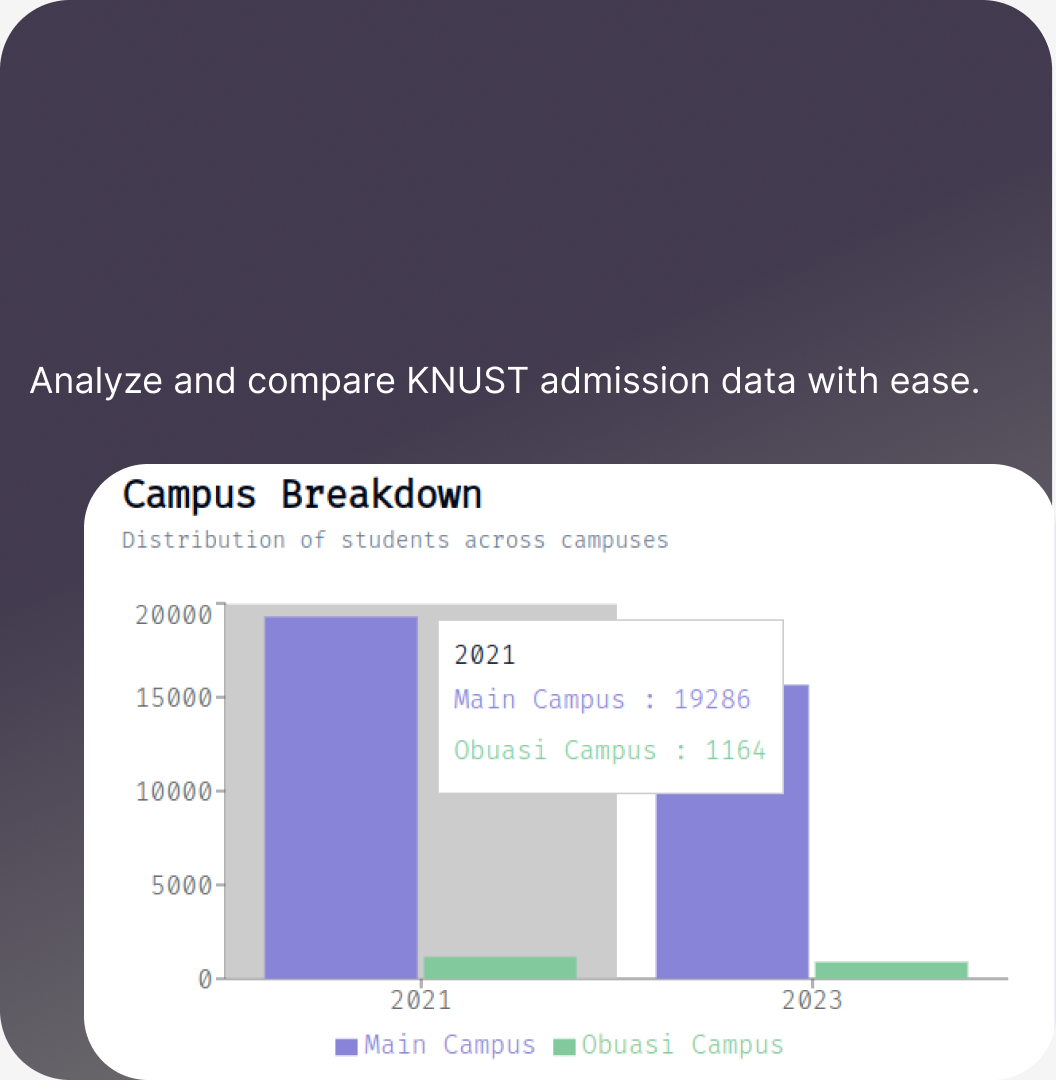
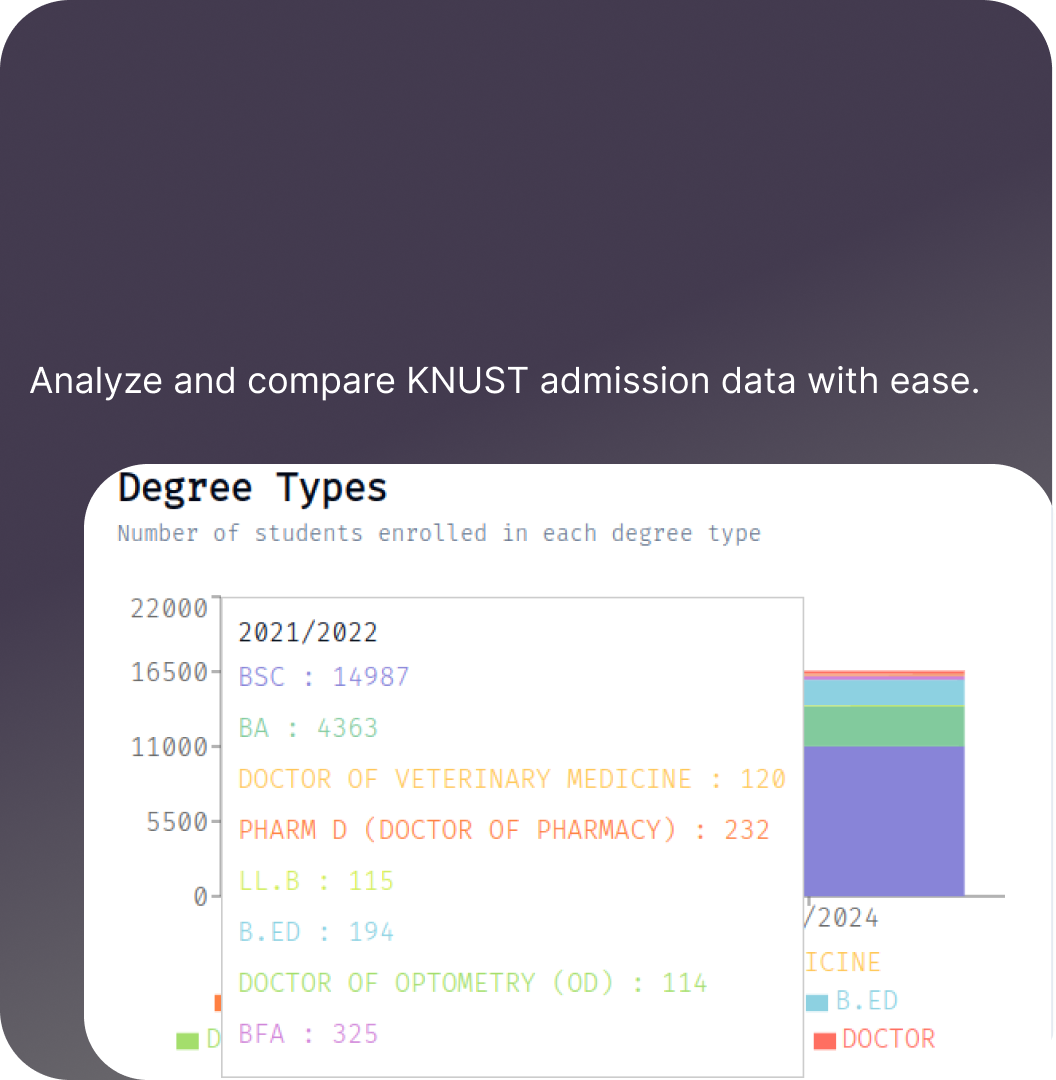
chore: use full academic year

Changed region(s): [[0.125, 0.55, 0.9375, 0.9778], [0.0938, 0.4278, 0.7188, 0.5194]]

diff --git a/src/App.tsx b/src/App.tsx
@@ -55,12 +55,14 @@ export default function App() {
         loadDataset("2023-2024")
       ]);
 
-      setDatasets({
-        "2021": twentyOne,
-        "2023": twentyThree
-      });
+      const datasets = {
+        "2021/2022": twentyOne,
+        "2023/2024": twentyThree
+      };
 
-      setSelectedYears(["2021", "2023"]);
+      setDatasets(datasets);
+
+      setSelectedYears(Object.keys(datasets));
     };
 
     fetchData();
